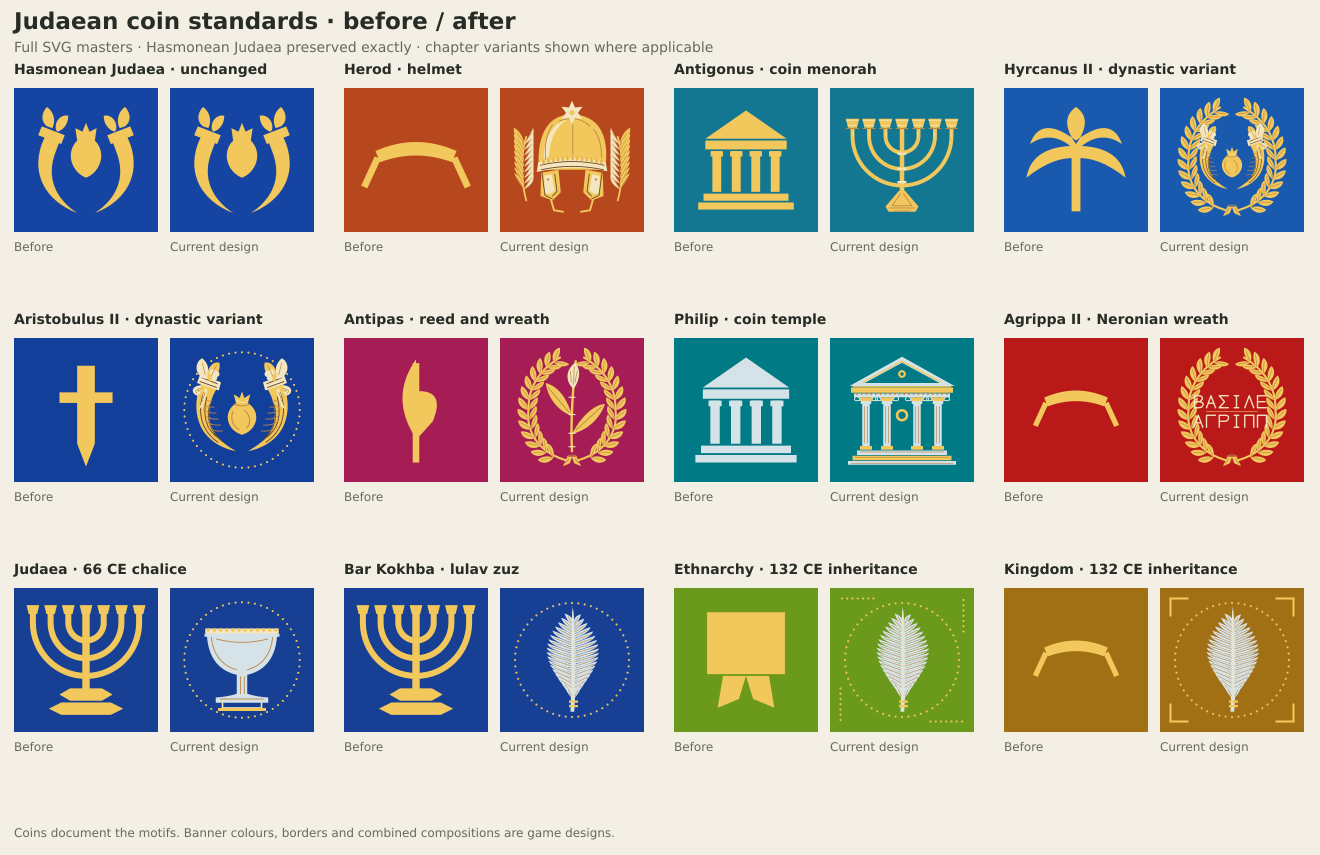
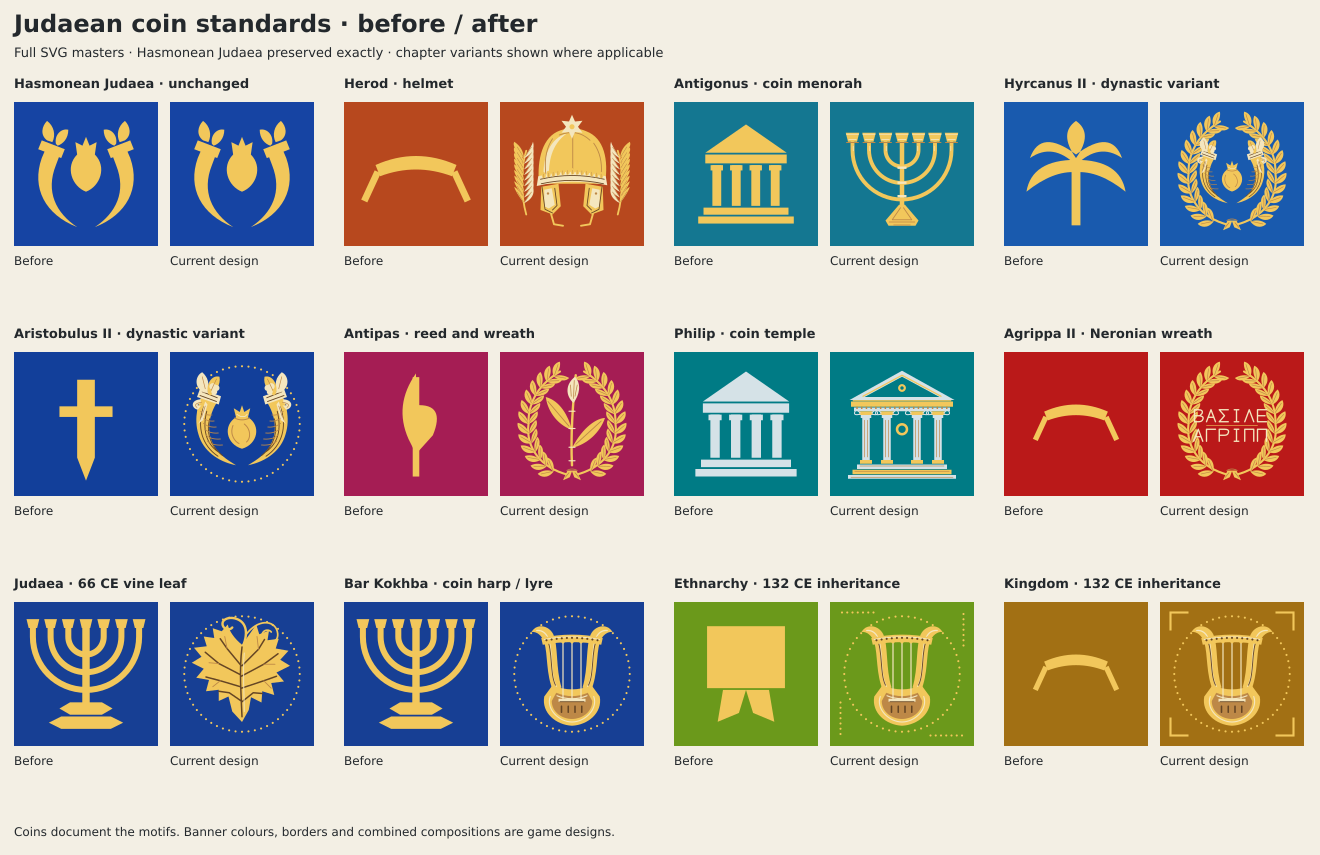
Use coin harp for Bar Kokhba and vine leaf for First Revolt

diff --git a/js/ui/judaean_standards.js b/js/ui/judaean_standards.js
@@ -18,8 +18,8 @@ export const JUDAEAN_COIN_SOURCES = {
   antipas: ['Oxford RPC I 4918 · Antipas reed and Tiberias wreath', 'https://rpc.ashmus.ox.ac.uk/coins/1/4918'],
   philip: ['British Museum · Philip’s tetrastyle temple coin', 'https://www.britishmuseum.org/collection/object/C_1947-0606-1273'],
   agrippa: ['Oxford RPC I 4989 · Agrippa II’s Neronian wreath type', 'https://rpc.ashmus.ox.ac.uk/coins/1/4989'],
-  revolt: ['Walters 59.518 · First Revolt shekel with chalice', 'https://art.thewalters.org/object/59.518/'],
-  lulav: ['Zissu et al. · Meʿarat Ha-Teʾomim zuz finds, nos. A33–A42', "https://www.researchgate.net/publication/285890131_Coins_from_the_Bar_Kokhba_Revolt_Hidden_in_Me'arat_Ha-Te'omim_Mugharet_Umm_et_Tueimin_Western_Jerusalem_Hills"],
+  revolt: ['British Museum · First Revolt vine-leaf prutah, 1908,0110.623', 'https://www.britishmuseum.org/collection/object/C_1908-0110-623'],
+  harp: ['Center for Jewish Art · Bar Kokhba three-string lyre denar, 27505', 'https://cja.huji.ac.il/?id=27505&mode=set'],
 };
 
 function beads(radius = 77, n = 56, ink = G) {
@@ -148,30 +148,35 @@ function agrippaWreath() {
     + l('M62 98H130', G, .85);
 }
 
-function revoltChalice(field) {
-  const bowl = p('M49 59H143C142 95 125 111 102 116H90C67 111 50 95 49 59Z', S)
-    + l('M55 64C57 89 70 104 89 109M137 64C135 89 122 104 103 109M62 68Q96 77 130 68', B, 1.2)
-    + rect(47, 54, 98, 7, I) + rect(46, 61, 100, 4, S)
-    + repeat(12, i => c(51 + i * 8.2, 56, 2.4, G));
-  const foot = p('M89 115H103V141Q115 145 131 146V153H61V146Q77 145 89 141Z', S)
-    + l('M94 118V141M99 118V141M67 148H125', B, 1.2)
-    + l('M70 153V160H122V153', I, 2.1)
-    + rect(64, 160, 64, 4, G);
-  return beads() + bowl + foot;
+function revoltLeaf() {
+  // Vine leaf, branching veins and curling tendril from the bronze prutah.
+  // Unequal serrated lobes preserve the botanical device of the coin.
+  const leaf = p('M96 57C86 49 79 39 77 30L69 39 57 35 59 48 45 46 49 59 32 61 42 73 29 81 45 89 35 101 52 104 48 119 65 117 65 132 78 126 83 146 96 160 105 144 108 127 122 134 123 119 139 124 135 108 152 106 142 94 160 85 147 77 158 65 141 62 145 49 130 51 132 38 119 43 115 30 106 43Z', G)
+    + l('M96 60C92 92 95 125 96 153M95 85 76 62 67 49M94 97 65 82 47 67M94 113 67 105 48 100M95 132 79 121 65 119M96 85 118 63 126 50M95 99 125 83 144 69M95 115 125 105 142 99M96 133 111 121 123 122', D, 2)
+    + l('M76 62 73 46M65 82 52 81M67 105 57 113M118 63 116 46M125 83 140 83M125 105 135 115', B, 1.15)
+    + l('M99 68C97 93 99 124 99 146', I, 1.25);
+  const stem = l('M96 62C105 42 102 28 90 23C81 19 70 22 70 29C70 36 79 39 83 34', G, 3.2)
+    + l('M101 44C117 22 139 24 143 39C148 57 124 59 123 45C122 38 131 35 135 40', G, 2.3);
+  return beads() + stem + leaf;
 }
 
-function lulav() {
-  // Standalone palm frond of the silver zuz, not the temple/sela reverse or
-  // the separate jug-and-branch type. No invented year or Hebrew legend.
-  const leaf = p('M94 165C96 121 92 77 97 24C102 65 102 119 99 165Z', S)
-    + l('M97 31V161', I, 1.2)
-    + repeat(18, i => {
-      const y = 42 + i * 5.7, width = 7 + Math.sin(i / 17 * Math.PI) * 24;
-      return p(`M96 ${y + 8}Q${96 - width} ${y + 1} ${96 - width - 3} ${y - 8}Q${96 - width + 9} ${y - 4} 96 ${y + 3}Z`, S)
-        + p(`M99 ${y + 8}Q${99 + width} ${y + 1} ${99 + width + 2} ${y - 7}Q${99 + width - 8} ${y - 4} 99 ${y + 3}Z`, S)
-        + l(`M${96 - width + 2} ${y - 4} 95 ${y + 5}M${99 + width - 2} ${y - 3} 100 ${y + 5}`, B, .8);
-    });
-  return beads(76, 56, G) + leaf + rect(92, 150, 12, 3, G) + rect(92, 156, 12, 3, G);
+function barKokhbaHarp(field) {
+  // The coin's lyre (the requested David-harp motif), with horn arms,
+  // three strings, a bridge and four incised marks on the bowl soundbox.
+  const arm = p('M71 119C61 96 64 70 59 54C56 44 48 39 42 40C49 28 65 31 71 43C78 59 74 88 82 114Z', G)
+    + l('M49 38C60 37 66 47 67 61C70 80 67 98 76 115', I, 1.7)
+    + l('M62 47C71 66 66 95 74 111', D, 1.2);
+  const body = p('M70 111Q96 122 122 111L133 126C137 148 117 164 96 165C75 164 55 148 59 126Z', G)
+    + p('M75 121Q96 130 117 121L123 132C123 147 109 156 96 156C83 156 69 147 69 132Z', B)
+    + l('M67 126C61 143 79 160 96 160C113 160 131 143 125 126M76 125Q96 133 116 125', I, 1.5)
+    + repeat(4, i => l(`M${82 + i * 9} 139v8`, D, 2.1));
+  const yoke = p('M55 48Q96 39 137 48L135 57Q96 50 57 57Z', G)
+    + l('M59 50Q96 43 133 50', I, 1.4)
+    + repeat(11, i => c(62 + i * 6.8, 51 - Math.sin(i * Math.PI / 10) * 3.2, 1.4, D));
+  const strings = [84, 96, 108].map(x => l(`M${x} 53V130`, I, 1.6)
+    + c(x, 53, 2.3, G)).join('');
+  return beads() + mirror(arm) + body + strings + yoke
+    + rect(78, 129, 36, 4, I) + l('M80 133H112', D, 1.1);
 }
 
 function coinStandard(fieldColor, emblem, drawing, note, source) {
@@ -189,7 +194,7 @@ function inheritedStandard(base, fieldColor, kingdom) {
     ? `<path d="M7 19V7H19M77 7H89V19M89 77V89H77M19 89H7V77" fill="none" stroke="${G}" stroke-width="1.4"/>`
     : repeat(4, side => group(repeat(7, i => c(8 + i * 3.5, 7, .7, G)), `rotate(${side * 90} 48 48)`));
   return { ...base, fieldColor, emblem, detailed: true,
-    note: `${kingdom ? 'Kingdom' : 'Ethnarchy'} of Judaea: the complete ${base.emblem === 'bar-kokhba-lulav-zuz' ? 'Bar Kokhba lulav-zuz device' : 'Judaean menorah'}, with an invented ${kingdom ? 'corner-band' : 'beaded-corner'} border. The source motif follows the founding chapter. ${base.note}`,
+    note: `${kingdom ? 'Kingdom' : 'Ethnarchy'} of Judaea: the complete ${base.emblem === 'bar-kokhba-coin-harp' ? 'Bar Kokhba coin harp/lyre' : 'Judaean menorah'}, with an invented ${kingdom ? 'corner-band' : 'beaded-corner'} border. The source motif follows the founding chapter. ${base.note}`,
     body: rect(0, 0, 96, 96, fieldColor) + `<g data-emblem="${emblem}" transform="translate(0 0)">${drawing}${border}</g>` };
 }
 
@@ -207,10 +212,10 @@ export function enrichJudaeanStandards(flags) {
     if (!flags[tag]?.fieldColor) throw new Error(`Coin standard has no base court: ${tag}`);
     flags[tag] = coinStandard(flags[tag].fieldColor, emblem, draw, note, source);
   }
-  flags.JUD_REVOLT = coinStandard(flags.JUD.fieldColor, 'first-revolt-chalice', revoltChalice,
-    'A silver chalice with a pearled rim, shaped bowl, stem and raised foot, after First Revolt shekels. The cited specimen is dated 69–70 CE; the motif is used across the 66 CE chapter without copying its year-four legend. Colours and the dotted border are game choices.', 'revolt');
-  flags.JUD_BK = coinStandard(flags.JUD.fieldColor, 'bar-kokhba-lulav-zuz', lulav,
-    'The standalone lulav (palm frond) of Bar Kokhba silver zuzim, with individual leaflets, central rib and stalk. The Meʿarat Ha-Teʾomim finds include this reverse in 133–134 CE; used across the 132 CE chapter. The border is a game composition and no coin legend is fabricated.', 'lulav');
+  flags.JUD_REVOLT = coinStandard(flags.JUD.fieldColor, 'first-revolt-vine-leaf', revoltLeaf,
+    'A lobed vine leaf on a branch with curling tendril and a dotted border, after the First Revolt bronze prutah, British Museum 1908,0110.623. The specimen dates to 67–68 CE; its motif is used across the 66 CE chapter. Vein detail and banner colours are artistic adaptations; no year or coin legend is reproduced.', 'revolt');
+  flags.JUD_BK = coinStandard(flags.JUD.fieldColor, 'bar-kokhba-coin-harp', barKokhbaHarp,
+    'The requested David-harp motif, drawn as the lyre on Bar Kokhba’s silver denar: curved horn arms, three strings, raised yoke, bridge and four incisions on the bowl-shaped soundbox. CJA 27505 dates to 133–134 CE; used across the 132 CE chapter. The ancient instrument’s precise name is uncertain. Colours and arrangement are game choices; no coin legend is fabricated.', 'harp');
   for (const [tag, kingdom] of [['EPJ', false], ['KGJ', true]]) {
     flags[tag] = inheritedStandard(flags.JUD, flags[tag].fieldColor, kingdom);
     flags[`${tag}_BK`] = inheritedStandard(flags.JUD_BK, flags[tag].fieldColor, kingdom);

diff --git a/js/data/bookmark_66ce.js b/js/data/bookmark_66ce.js
@@ -170,7 +170,7 @@ function fireEventById(ctx, eventId) {
 }
 
 export const BOOKMARK_66 = {
-  // The revolt's own silver coin device, shared by all flag consumers.
+  // The revolt's vine-leaf coin device, shared by all flag consumers.
   tagTweaks: { JUD: { flag: 'JUD_REVOLT' } },
   id: '66ce',
   name: 'The Great Revolt',

diff --git a/js/data/bookmark_132ce.js b/js/data/bookmark_132ce.js
@@ -89,7 +89,7 @@ function anyFlag(ctx, ...keys) {
 }
 
 export const BOOKMARK_132 = {
-  // The lulav-zuz device follows this chapter into its formable crowns.
+  // The coin harp device follows this chapter into its formable crowns.
   tagTweaks: {
     JUD: { flag: 'JUD_BK' },
     EPJ: { flag: 'EPJ_BK' },

diff --git a/EMBLEM_BRIEF.md b/EMBLEM_BRIEF.md
@@ -20,8 +20,8 @@ derived Ethnarchy/Kingdom standards. Its enrichment runs last. Hasmonean
 Judaea (`HAS`) remains exactly unchanged, including its gold palette and note.
 The general Judaean menorah also remains available.
 
-The 66 CE chapter assigns `JUD_REVOLT` (chalice); the 132 CE chapter assigns
-`JUD_BK` (the standalone lulav on a silver zuz). The latter chapter also
+The 66 CE chapter assigns `JUD_REVOLT` (vine leaf); the 132 CE chapter assigns
+`JUD_BK` (the harp/lyre on a silver denar). The latter chapter also
 assigns `EPJ_BK` and `KGJ_BK` so formation retains the whole founding device
 with a distinct game border. Chapter lenses and saved court identities use
 the established `flagChip`/`flagInfo` lookup. The gallery's chapter selector
@@ -105,8 +105,8 @@ Judaean references live in `JUDAEAN_COIN_SOURCES` in `judaean_standards.js`.
 - Antipas: [Oxford RPC I 4918](https://rpc.ashmus.ox.ac.uk/coins/1/4918), reed and wreath, 20/21 CE. Combining both sides into one banner is invented; this later type is retrospective when the tetrarchy first appears.
 - Philip: [British Museum, 1947,0606.1273](https://www.britishmuseum.org/collection/object/C_1947-0606-1273), four-column temple on a raised platform and its central circular object. Do not identify it as the Jerusalem Temple.
 - Agrippa II: [Oxford RPC I 4989](https://rpc.ashmus.ox.ac.uk/coins/1/4989), Neronian wreath issue. The vector Greek excerpts `ΒΑΣΙΛΕ / ΑΓΡΙΠΠ` retain the recorded abbreviations, in an invented arrangement. The 66 CE opening does not borrow his later Flavian Victory types.
-- First Revolt: [Walters, 59.518](https://art.thewalters.org/object/59.518/), chalice, pearled rim and raised foot. The cited specimen is year four, 69–70 CE; the chapter-wide motif does not copy that date legend.
-- Bar Kokhba: [Zissu et al., Coins from Meʿarat Ha-Teʾomim](https://www.researchgate.net/publication/285890131_Coins_from_the_Bar_Kokhba_Revolt_Hidden_in_Me'arat_Ha-Te'omim_Mugharet_Umm_et_Tueimin_Western_Jerusalem_Hills), catalogue A33–A42. The silver zuz reverse has a standalone palm frond (lulav); it is distinct from the jug-and-branch type and the Temple/sela type. A33–A37 are dated 133–134 CE; the game uses the motif across the 132 CE chapter. No Hebrew legend or regnal date is fabricated.
+- First Revolt: [British Museum, 1908,0110.623](https://www.britishmuseum.org/collection/object/C_1908-0110-623), bronze prutah with a vine leaf on a branch, curling tendril and dotted border. The specimen dates to 67–68 CE; the motif serves the whole 66 CE chapter without copying the year legend.
+- Bar Kokhba: [Center for Jewish Art, 27505](https://cja.huji.ac.il/?id=27505&mode=set), silver denar of 133–134 CE. The requested David-harp motif is rendered as the coin’s three-string lyre with curved horn arms, raised yoke, bridge and four incisions on a bowl-shaped soundbox. Its ancient classification as kinnor or nevel remains uncertain. The motif serves the 132 CE chapter and its formable Judaean crowns. No coin legend is fabricated.
 
 ## Review and compatibility
 
